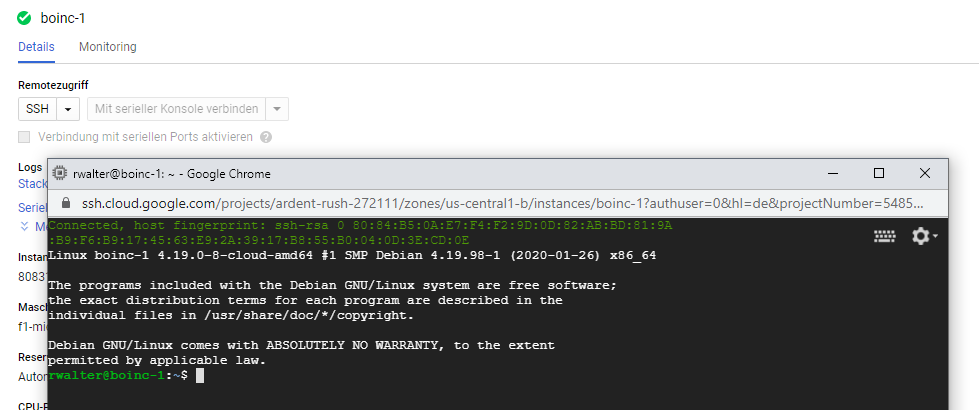
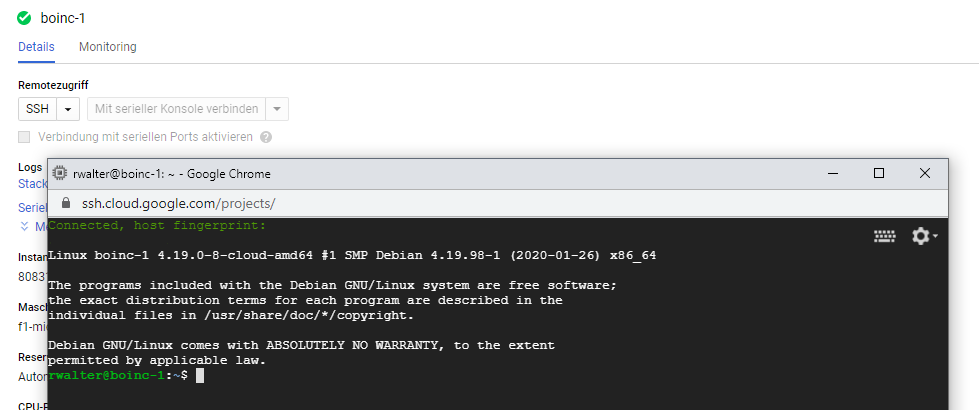
update

Changed region(s): [[0.1532, 0.4683, 0.9499, 0.6146], [0.0613, 0.5561, 0.1226, 0.6146]]

diff --git a/_posts/2020-3-24-Running BOINC on GCP.md b/_posts/2020-3-24-Running BOINC on GCP.md
@@ -18,4 +18,4 @@ Basically you only need to create a simple f1-micro instance. I chose an SDDC in
 
 Then the instance must be created, which only takes a few seconds.![](/images/2020-3-24-Running BOINC on GCP_2.png)
 
-
+You can immediately connect to the VM via SSH. ((Press the button SSH)) ![](/images/2020-3-24-Running BOINC on GCP_3.png)
